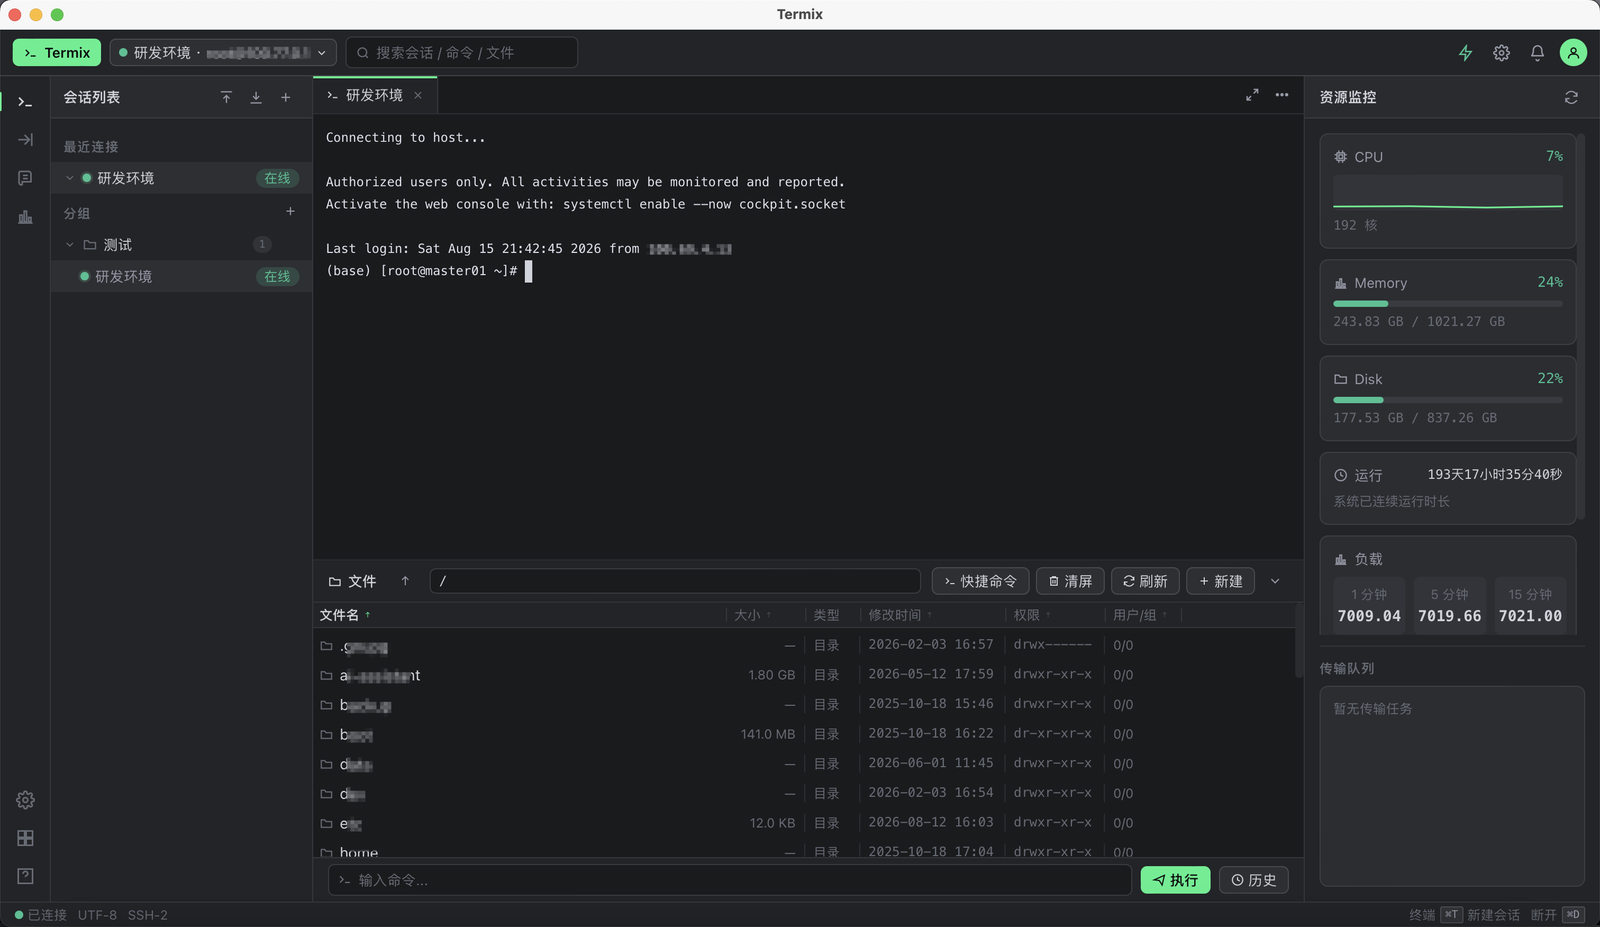
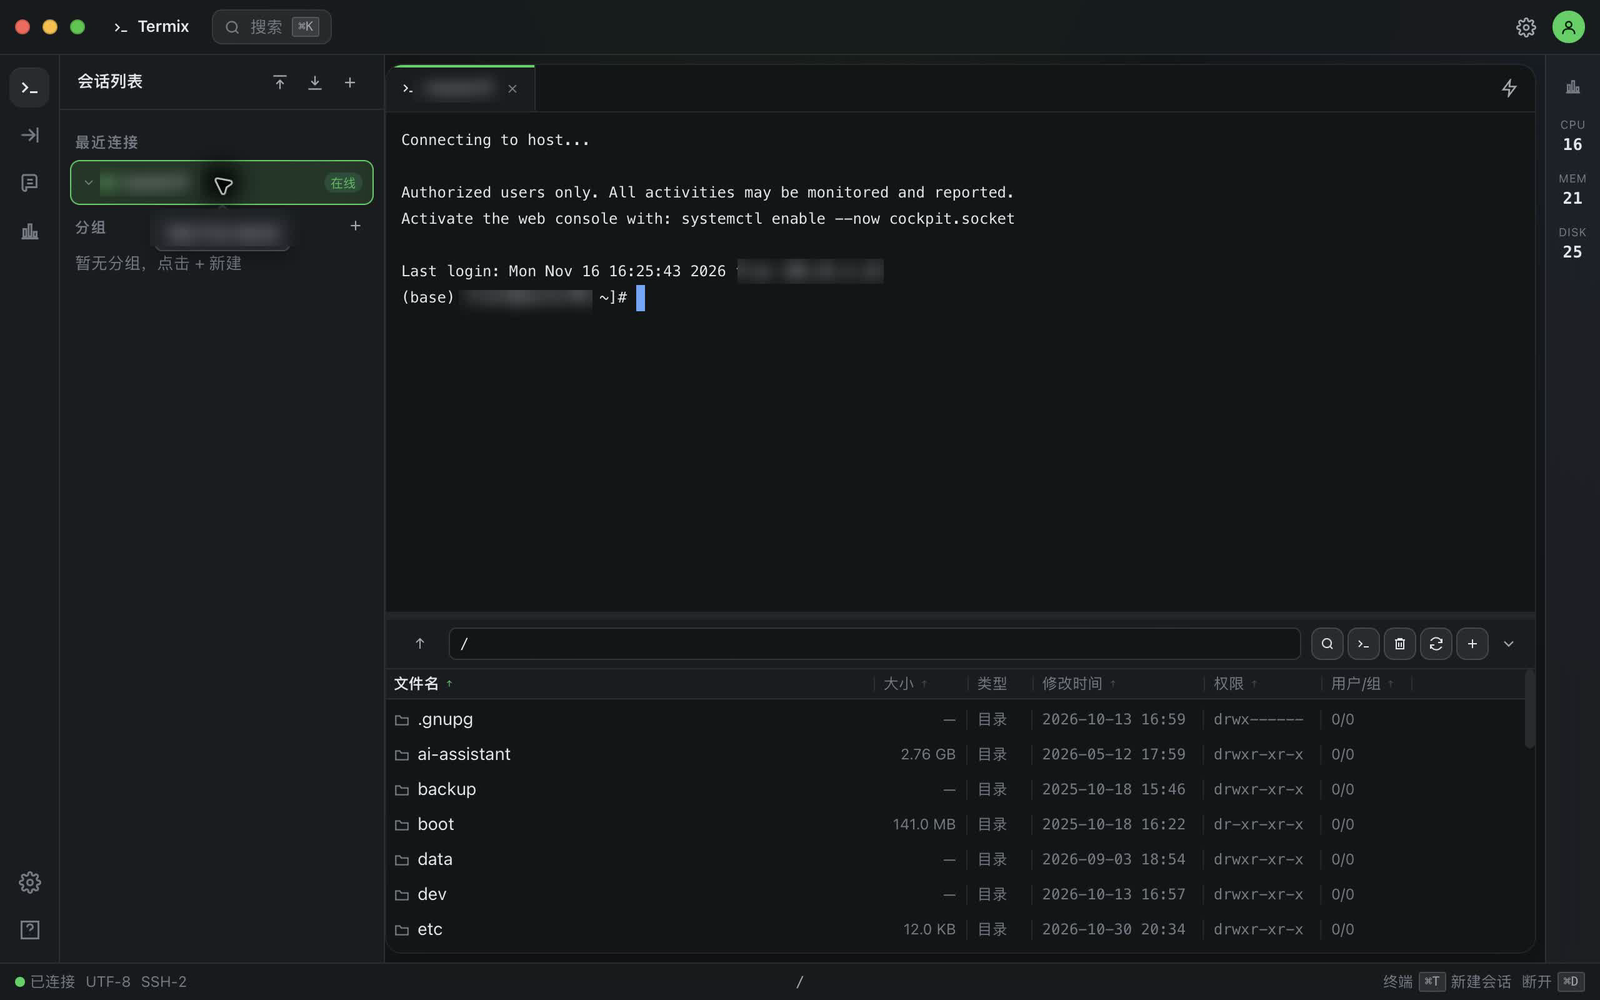
docs: 更新主界面截图与功能说明
- 替换为当前终端、文件面板与服务器概览连接态截图，并对真实 IP/主机名打码
- 补充会话拖拽分组、服务器概览、终端滚动与复制粘贴、SFTP 首屏快速展示说明
- 更新 Windows 安装包格式、测试数量及项目结构描述

diff --git a/README.md b/README.md
@@ -3,7 +3,7 @@
 跨平台（macOS / Windows）SSH 终端连接工具，对标 MobaXterm / FinalShell，集成连接管理、多标签终端、SFTP、端口转发、系统监控等能力。基于 Tauri 2 构建，**安装包小（5-15MB）、内存占用低（约为 Electron 1/3）**。
 
 <p align="center">
-  <img src="screenshots/termix-main.png" alt="Termix 主界面" width="900" />
+  <img src="screenshots/termix-main.png" alt="Termix 主界面：终端、文件面板与服务器概览" width="900" />
 </p>
 
 ---
@@ -13,16 +13,19 @@
 ### 连接管理
 - 新建 / 编辑 / 删除 / 分组 SSH 连接，支持密码与私钥认证
 - 会话侧边栏：最近连接、分组、在线/离线/连接中状态圆点，双击打开终端
+- **拖拽分组**：最近连接或分组内的会话可直接拖到任意分组
+- **服务器概览**：IP、运行时长、负载、CPU / 内存 / 磁盘占比与网络速率；未连接时显示占位状态
 - 会话右键菜单：在新标签连接 / 编辑 / 复制连接信息 / 删除
 - **会话导入/导出**：JSON 备份（含分组），同名去重合并，导出时解锁主密码可导出明文密码
 - 标题栏全局搜索（按名称 / 主机 / 用户名过滤）
 
 ### 终端与文件面板（一体化）
-- **终端与文件面板一体化**：SSH 终端窗口 + 底部命令输入区常驻，底部文件面板展示远程文件系统（可收起）；切换到监控 / 设置等模块时终端仅隐藏不卸载，SSH 会话输出与状态不丢失
+- **终端与文件面板一体化**：SSH 终端窗口 + 可唤出的底部命令输入区，底部文件面板展示远程文件系统（可收起）；切换到监控 / 设置等模块时终端仅隐藏不卸载，SSH 会话输出与状态不丢失
 - 多标签终端（xterm.js），标签右键：关闭 / 关闭其他 / 关闭右侧 / 复制标签 / 重命名标签
-- **终端右键菜单**：复制 / 粘贴 / 清屏；多行粘贴先确认再发送
-- 终端内操作：复制选中、保存日志（.log）、清屏、断开、**终端内搜索**（Ctrl+F）
-- 命令输入区：执行、历史下拉（按会话持久化、上下键切换）；终端直接输入 / 底部输入框 / 快捷命令共享同一份历史
+- **终端右键菜单**：复制 / 粘贴 / 查找 / 清屏；多行粘贴先确认再发送
+- **终端滚动与复制粘贴**：右侧常显滚动条，支持长时间输出回看；`Cmd/Ctrl+C`、`Cmd/Ctrl+V` 复制粘贴
+- 终端内操作：**终端内搜索**（Ctrl+F）、清空输出、断开连接
+- 命令输入区（Ctrl+L 唤出）：执行、历史下拉（按会话持久化、上下键切换）；终端直接输入 / 底部输入框 / 快捷命令共享同一份历史
 - **快捷命令面板**：搜索片段 + 一键发送 + `{{var}}` 变量填充（位于文件面板工具栏）
 - 快捷键：`⌘/Ctrl+T` 新建连接、`⌘/Ctrl+D` 断开、`Ctrl+/-` 字号缩放、`Ctrl+F` 终端内搜索
 - 命令片段：CRUD + 一键插入 + `{{var}}` 变量交互填充
@@ -30,7 +33,7 @@
 
 ### SFTP 文件面板
 - 远程文件列表：**名称 / 大小 / 类型 / 修改时间 / 权限 / 属主六列展示**，点击列头排序，列宽内容自适应且可拖动调整
-- 目录真实大小统计；uid / gid 数值映射为用户名 / 组名（如 root/root）
+- **首屏快速展示**：目录列表先返回，目录大小与 uid / gid 用户组映射后台补充，避免大目录首次加载卡顿
 - 上传（拖拽系统文件入面板）/ 下载 / 新建文件夹 / 新建文件 / 删除 / 重命名；目录递归传输
 - **右键菜单**：远程（下载 / 下载目录 / 重命名 / 删除 / 复制路径）+ 空白区（新建文件夹 / 刷新）
 - 下载防呆：本地目标目录已存在同名文件 / 目录时先确认再执行
@@ -50,9 +53,11 @@
 - 监控详情页：指标卡 + CPU 实时曲线 + **CPU 核心数 / 主频** + **运行时长**（独立递增）+ 磁盘分区详情 + 进程 Top
 - 刷新间隔可在设置中调整（1 / 2 / 5 秒）
 
-### 安全与设置
+### 安全与界面
 - 主密码（PBKDF2 + AES-256-GCM）加密会话密码 / 私钥密码，支持设置 / 修改 / 解锁 / 锁定 / 清除
 - 深色 / 浅色 / 跟随系统主题、字号、光标样式、滚动缓冲区
+- macOS / Windows 差异化标题栏：macOS 左侧交通灯，Windows 右侧最小化 / 最大化 / 关闭，快捷键提示自动切换 `⌘` / `Ctrl`
+- 终端文件面板分隔条可拖拽调整高度，标题栏、活动栏与侧栏使用连续分隔线
 
 > 说明：当前面向 **Linux 类服务器**（终端 / SFTP / 转发 / 监控均基于 Unix 命令）。远程 Windows 服务器（编码、监控兼容）暂未接入。
 
@@ -82,15 +87,15 @@ npm run tauri dev
 # 3. 详细日志模式
 RUST_LOG=debug npm run tauri dev
 
-# 4. 构建安装包（macOS .dmg / Windows .msi）
+# 4. 构建安装包（macOS .dmg / Windows .exe）
 npm run tauri build
 ```
 
 ### 运行单元测试
 
 ```bash
-cd src-tauri && cargo test   # Rust 后端（45 个用例）
-npm test                     # 前端 Vitest（18 个用例）
+cd src-tauri && cargo test   # Rust 后端（53 个用例）
+npm test                     # 前端 Vitest（44 个用例）
 ```
 
 > 网络类功能（SSH / SFTP）依赖真实服务器，未做集成测试。
@@ -102,9 +107,9 @@ npm test                     # 前端 Vitest（18 个用例）
 ```
 Termix/
 ├── src/                     # 前端（React + TS）
-│   ├── components/          # 标题栏 / 活动导航 / 终端与文件面板 / 转发 / 监控 / 设置等
+│   ├── components/          # 标题栏 / 服务器概览 / 终端与文件面板 / 转发 / 监控 / 设置等
 │   ├── store/               # zustand 全局状态（app.ts）与监控单一数据源（monitor.ts）
-│   ├── lib/                 # IPC 封装、终端注册表、命令变量、SFTP 菜单、资源颜色等
+│   ├── lib/                 # IPC 封装、终端注册表、缓存/筛选/选择、窗口控制、SFTP 菜单等
 │   ├── styles/              # 设计 token + 全局样式（深/浅主题）
 │   └── assets/icons/        # SVG 图标
 └── src-tauri/               # 后端（Rust）
